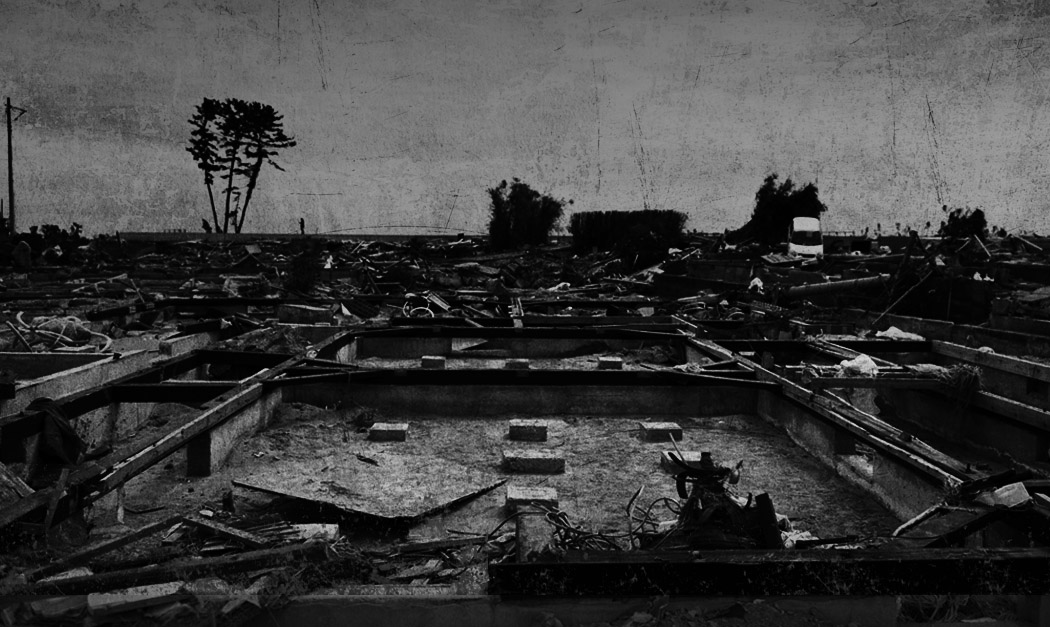
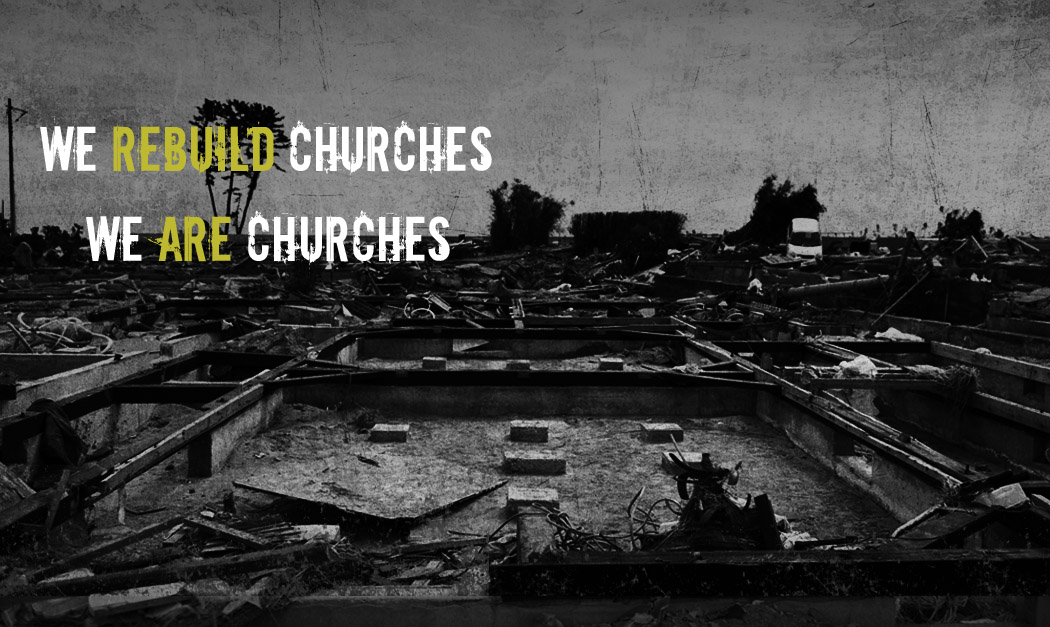
Change Home Page Slide 1's text to image for better readability

diff --git a/css/index.css b/css/index.css
@@ -1,15 +1,4 @@
 @font-face {
-  font-family: 'DowncomeRegular';
-  src: url('../fonts/downcome/downcome-webfont.eot');
-  src: url('../fonts/downcome/downcome-webfont.eot?#iefix') format('embedded-opentype'),
-       url('../fonts/downcome/downcome-webfont.ttf') format('truetype'),
-       url('../fonts/downcome/downcome-webfont.woff') format('woff'),
-       url('../fonts/downcome/downcome-webfont.svg#DowncomeRegular') format('svg');
-  font-weight: normal;
-  font-style: normal;
-}
-
-@font-face {
     font-family: 'MuseoSans500';
     src: url('../fonts/museosans/MuseoSans_500-webfont.eot');
     src: url('../fonts/museosans/MuseoSans_500-webfont.eot?#iefix') format('embedded-opentype'),
@@ -45,8 +34,8 @@ aside q:after { content: "”"; color: #7c8624; font-family: Arial, sans-serif; 
 .slide1 > div { width: 500px; float: left; }
 .slide1 div:nth-child(1) { margin: 127px 0 0 40px; text-align: center; }
 .slide1 div:nth-child(2) { margin: 120px 0 0 10px; }
-.slide1 h3 { font-family: DowncomeRegular, sans-serif; font-size: 60px; line-height: 90px; color: #fff; margin: 0; margin-bottom: 40px; }
-.slide1 a { font-size: 24px; }
+.slide1 h3 { font-size: 60px; line-height: 90px; color: #fff; margin: 0; margin-bottom: 40px; }
+.slide1 a { font-size: 24px; margin-top: 190px; }
 .slide1 iframe { border: 9px solid #beb931; }
 
 .slide2 { background: url('../img/backgrounds/home/slide2.jpg') no-repeat top left; position: relative; }

diff --git a/index.html b/index.html
@@ -60,7 +60,7 @@
 			<div id="slides">
 				<article class="slide1">
 					<div>
-						<h3>We <span class="highlight">Rebuild</span> Churches <br>We <span class="highlight">Are</span> Churches</h3>
+						<h3 hidden>We Rebuild Churches, We Are Churches</h3>
 						<a class="redbutton" href="">Will you join us?</a>
 					</div>
 					<div>
